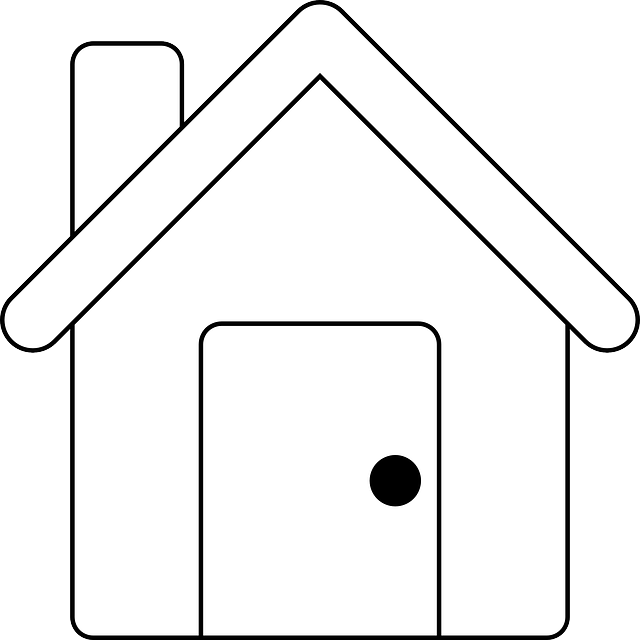
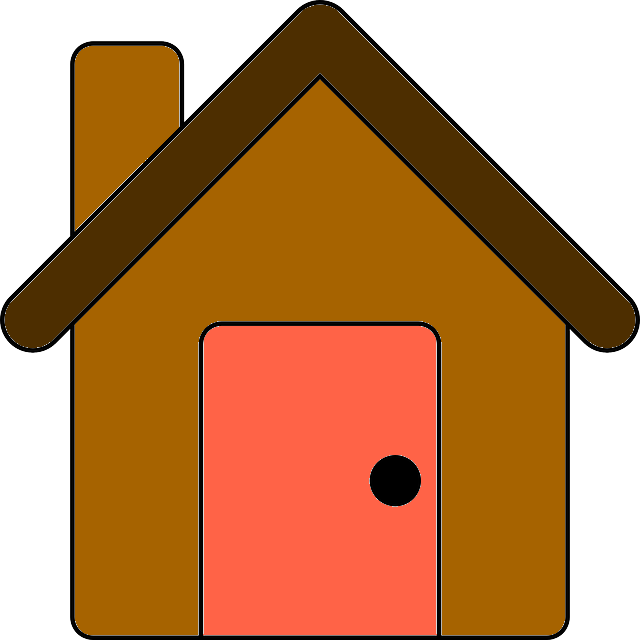
Style cards (#2)
* Style cards with custom images

* Add styling for city plan cards

* Colour house/favicon

diff --git a/Client/wwwroot/css/site.min.css b/Client/wwwroot/css/site.min.css
@@ -1,1 +1,1 @@
-@import url('open-iconic/font/css/open-iconic-bootstrap.min.css');html,body{font-family:'Helvetica Neue',Helvetica,Arial,sans-serif}app{position:relative;display:flex;flex-direction:column}.top-row{height:3.5rem;display:flex;align-items:center}.main{flex:1}.main .top-row{background-color:#e6e6e6;border-bottom:1px solid #d6d5d5}.sidebar{background-image:linear-gradient(180deg,#052767 0%,#3a0647 70%)}.sidebar .top-row{background-color:rgba(0,0,0,.4)}.sidebar .navbar-brand{font-size:1.1rem}.sidebar .oi{width:2rem;font-size:1.1rem;vertical-align:text-top;top:-2px}.nav-item{font-size:.9rem;padding-bottom:.5rem}.nav-item:first-of-type{padding-top:1rem}.nav-item:last-of-type{padding-bottom:1rem}.nav-item a{color:#d7d7d7;border-radius:4px;height:3rem;display:flex;align-items:center;line-height:3rem}.nav-item a.active{background-color:rgba(255,255,255,.25);color:#fff}.nav-item a:hover{background-color:rgba(255,255,255,.1);color:#fff}#blazor-error-ui{background:#ffffe0;bottom:0;box-shadow:0 -1px 2px rgba(0,0,0,.2);display:none;left:0;padding:.6rem 1.25rem .7rem 1.25rem;position:fixed;width:100%;z-index:1000}#blazor-error-ui .dismiss{cursor:pointer;position:absolute;right:.75rem;top:.5rem}.content{padding-top:1.1rem}.navbar-toggler{background-color:rgba(255,255,255,.1)}.valid.modified:not([type=checkbox]){outline:1px solid #26b050}.invalid{outline:1px solid #f00}.validation-message{color:#f00}.game-info-toggler{line-height:.8;font-size:.5em}@media(max-width:1439.98px){.main .top-row{display:none}.game-info-toggler{margin-top:-2.2em}}@media(min-width:1440px){app{flex-direction:row}.game-info-toggler{position:absolute;top:0;left:50%}.sidebar{width:200px;height:100vh;position:sticky;top:0}.main .top-row{position:sticky;top:0}.main>div{padding-left:2rem !important;padding-right:1.5rem !important}.navbar-toggler{display:none}.sidebar .collapse{display:block}}@media(min-width:1540px){.sidebar{width:250px}}.dropzone{min-height:100%;min-width:100%,}.pointer{cursor:pointer}@media(max-width:480px){app{display:none}}@media(min-width:480px) and (min-height:320px){html,body{font-size:8px}.adjustable-font-size-small{font-size:80% !important}.street{height:12vh}.street>.house{border-top:solid #fff}.street>.house:last-of-type{border-right:solid #fff}.house{border-right:#fff dashed;padding:0}.house-first{border-left:solid #fff}.house-fenced{border-right-style:solid}.horizontal-road{height:2vh}.vertical-road{width:2vw}}@media(min-width:980px) and (min-height:480px){html,body{font-size:10px}.house,.street>.house,.street>.house:last-of-type{border-width:thick}}@media(min-width:1140px) and (min-height:560px){html,body{font-size:12px}}@media(min-width:1200px) and (min-height:640px){html,body{font-size:13px}}@media(min-width:1440px) and (min-height:720px){html,body{font-size:14px}}@media(min-width:1540px) and (min-height:800px){html,body{font-size:15px}}@media(min-width:1700px) and (min-height:900px){html,body{font-size:16px}}.dataTables_wrapper{width:100%}.grass-background{background-image:radial-gradient(circle,#62aa36 0%,#567d46 95%)}.house-image{height:1.6rem;width:1.6rem}.garden{height:1.6rem;background-image:url(/images/tree.png);background-size:contain;background-repeat:repeat-x}@font-face{font-family:'Bubblegum Sans';font-style:normal;font-weight:400;src:url(/fonts/BubblegumSans-Regular.ttf);unicode-range:U+100-24F,U+259,U+1E00-1EFF,U+2020,U+20A0-20AB,U+20AD-20CF,U+2113,U+2C60-2C7F,U+A720-A7FF}@font-face{font-family:'Bubblegum Sans';font-style:normal;font-weight:400;src:url(/fonts/BubblegumSans-Regular.ttf);unicode-range:U+0-FF,U+131,U+152-153,U+2BB-2BC,U+2C6,U+2DA,U+2DC,U+2000-206F,U+2074,U+20AC,U+2122,U+2191,U+2193,U+2212,U+2215,U+FEFF,U+FFFD}.bubblegum-font{font-family:'Bubblegum Sans'}
+@import url('open-iconic/font/css/open-iconic-bootstrap.min.css');html,body{font-family:'Helvetica Neue',Helvetica,Arial,sans-serif}app{position:relative;display:flex;flex-direction:column}.top-row{height:3.5rem;display:flex;align-items:center}.main{flex:1}.main .top-row{background-color:#e6e6e6;border-bottom:1px solid #d6d5d5}.sidebar{background-image:linear-gradient(180deg,#052767 0%,#3a0647 70%)}.sidebar .top-row{background-color:rgba(0,0,0,.4)}.sidebar .navbar-brand{font-size:1.1rem}.sidebar .oi{width:2rem;font-size:1.1rem;vertical-align:text-top;top:-2px}.nav-item{font-size:.9rem;padding-bottom:.5rem}.nav-item:first-of-type{padding-top:1rem}.nav-item:last-of-type{padding-bottom:1rem}.nav-item a{color:#d7d7d7;border-radius:4px;height:3rem;display:flex;align-items:center;line-height:3rem}.nav-item a.active{background-color:rgba(255,255,255,.25);color:#fff}.nav-item a:hover{background-color:rgba(255,255,255,.1);color:#fff}#blazor-error-ui{background:#ffffe0;bottom:0;box-shadow:0 -1px 2px rgba(0,0,0,.2);display:none;left:0;padding:.6rem 1.25rem .7rem 1.25rem;position:fixed;width:100%;z-index:1000}#blazor-error-ui .dismiss{cursor:pointer;position:absolute;right:.75rem;top:.5rem}.content{padding-top:1.1rem}.navbar-toggler{background-color:rgba(255,255,255,.1)}.valid.modified:not([type=checkbox]){outline:1px solid #26b050}.invalid{outline:1px solid #f00}.validation-message{color:#f00}.game-info-toggler{line-height:.8;font-size:.5em}@media(max-width:1439.98px){.main .top-row{display:none}.game-info-toggler{margin-top:-2.2em}}@media(min-width:1440px){app{flex-direction:row}.game-info-toggler{position:absolute;top:0;left:50%}.sidebar{width:200px;height:100vh;position:sticky;top:0}.main .top-row{position:sticky;top:0}.main>div{padding-left:2rem !important;padding-right:1.5rem !important}.navbar-toggler{display:none}.sidebar .collapse{display:block}}@media(min-width:1540px){.sidebar{width:250px}}.dropzone{min-height:100%;min-width:100%,}.pointer{cursor:pointer}@media(max-width:480px){app{display:none}}@media(min-width:480px) and (min-height:320px){html,body{font-size:8px}.adjustable-font-size-small{font-size:80% !important}.street{height:12vh}.street>.house{border-top:solid #fff}.street>.house:last-of-type{border-right:solid #fff}.house{border-right:#fff dashed;padding:0}.house-first{border-left:solid #fff}.house-fenced{border-right-style:solid}.horizontal-road{height:2vh}.vertical-road{width:2vw}}@media(min-width:980px) and (min-height:480px){html,body{font-size:10px}.house,.street>.house,.street>.house:last-of-type{border-width:thick}}@media(min-width:1140px) and (min-height:560px){html,body{font-size:12px}}@media(min-width:1200px) and (min-height:640px){html,body{font-size:13px}}@media(min-width:1440px) and (min-height:720px){html,body{font-size:14px}}@media(min-width:1540px) and (min-height:800px){html,body{font-size:15px}}@media(min-width:1700px) and (min-height:900px){html,body{font-size:16px}}.dataTables_wrapper{width:100%}.grass-background{background-image:radial-gradient(circle,#62aa36 0%,#567d46 95%)}.house-image{height:1.6rem;width:1.6rem}.garden{height:1.6rem;background-image:url(/images/garden.png);background-size:contain;background-repeat:repeat-x}@font-face{font-family:'Bubblegum Sans';font-style:normal;font-weight:400;src:url(/fonts/BubblegumSans-Regular.ttf);unicode-range:U+100-24F,U+259,U+1E00-1EFF,U+2020,U+20A0-20AB,U+20AD-20CF,U+2113,U+2C60-2C7F,U+A720-A7FF}@font-face{font-family:'Bubblegum Sans';font-style:normal;font-weight:400;src:url(/fonts/BubblegumSans-Regular.ttf);unicode-range:U+0-FF,U+131,U+152-153,U+2BB-2BC,U+2C6,U+2DA,U+2DC,U+2000-206F,U+2074,U+20AC,U+2122,U+2191,U+2193,U+2212,U+2215,U+FEFF,U+FFFD}.bubblegum-font{font-family:'Bubblegum Sans'}.card-background{background-color:#ffe4b5}.card-background-effect{background-image:radial-gradient(white,moccasin)}

diff --git a/Client/wwwroot/css/site.css b/Client/wwwroot/css/site.css
@@ -291,7 +291,7 @@ app {
 
 .garden {
     height: 1.6rem;
-    background-image: url(/images/tree.png);
+    background-image: url(/images/garden.png);
     background-size: contain;
     background-repeat: repeat-x;
 }
@@ -314,4 +314,12 @@ app {
 
 .bubblegum-font {
     font-family: 'Bubblegum Sans';
+}
+
+.card-background {
+    background-color: moccasin;
+}
+
+.card-background-effect {
+    background-image: radial-gradient(white, moccasin);
 }
